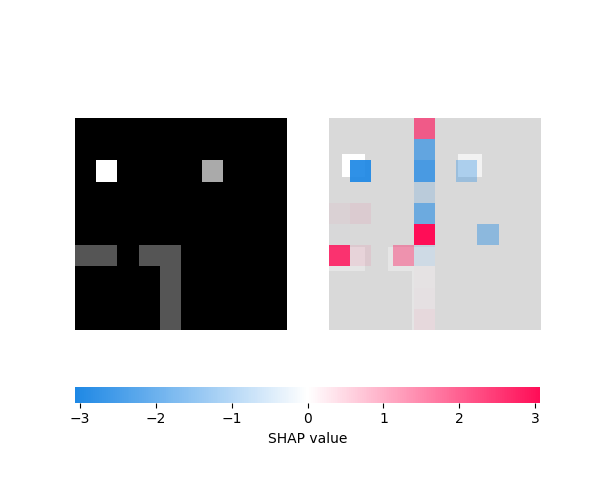
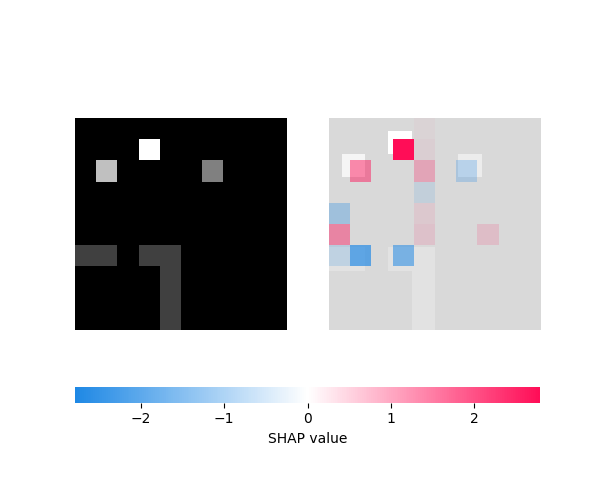
feat: q values

diff --git a/gui/src/utils/model_handler.py b/gui/src/utils/model_handler.py
@@ -64,6 +64,7 @@ class ModelHandler:
                 )
 
     def get_q_values_maps(self, full_state: np.ndarray) -> list[np.ndarray]:
+        self.env.unwrapped.set_state(full_state)
         all_possible_seeker_states = self.env.unwrapped.get_all_possible_states(
             "seeker"
         )
@@ -97,6 +98,10 @@ class ModelHandler:
     def generate_saliency_image(
         self, matrix: np.ndarray, filename: str = "gui/src/assets/saliency.png"
     ):
+        matrix = np.flipud(matrix)
+        matrix = np.rot90(matrix)
+        matrix = np.rot90(matrix)
+        matrix = np.rot90(matrix)
         plt.imshow(matrix, cmap="hot")
         plt.colorbar()
         plt.savefig(filename)

diff --git a/gui/src/components/result_frame.py b/gui/src/components/result_frame.py
@@ -35,9 +35,9 @@ class ResultViewerFrame(ctk.CTkFrame):
         self.shap_viewer_frame.grid(row=1, column=0, padx=10, pady=10, sticky="nswe")
 
     def update_result(self, q_values: bool):
-        if q_values:
+        if q_values == 1:
             self.q_values_viewer_frame.grid(
-                row=1, column=0, padx=10, pady=10, sticky="nswe"
+                row=0, column=0, padx=10, pady=10, sticky="nswe"
             )
             self.q_values_viewer_frame.update_image()
         else:

diff --git a/environments/gymnasium/envs/tag/tag.py b/environments/gymnasium/envs/tag/tag.py
@@ -187,6 +187,9 @@ class TagEnv(gym.Env):
             return_info,
         )
 
+    def set_state(self, state: np.ndarray) -> np.ndarray:
+        return self.update_state(state)
+
     def _handle_agent_switch(
         self, skip: bool
     ) -> Tuple[np.ndarray, float, bool, bool, Dict[str, Any]]:

diff --git a/environments/gymnasium/wrappers/state_wrapper.py b/environments/gymnasium/wrappers/state_wrapper.py
@@ -11,3 +11,6 @@ class StateWrapper(gym.Wrapper):
 
     def get_all_possible_states(self, agent: str | None = None):
         return self.env.get_wrapper_attr("get_all_possible_states")(agent)
+
+    def set_state(self, state: np.ndarray):
+        self.env.get_wrapper_attr("set_state")(state)

diff --git a/environments/gymnasium/envs/tag/tag_state.py b/environments/gymnasium/envs/tag/tag_state.py
@@ -68,6 +68,10 @@ class TagState:
     def full(self) -> np.ndarray:
         return self.state.full
 
+    @full.setter
+    def full(self, value: np.ndarray):
+        self.state.full = value
+
     @property
     def partial(self) -> np.ndarray:
         return self.state.partial
